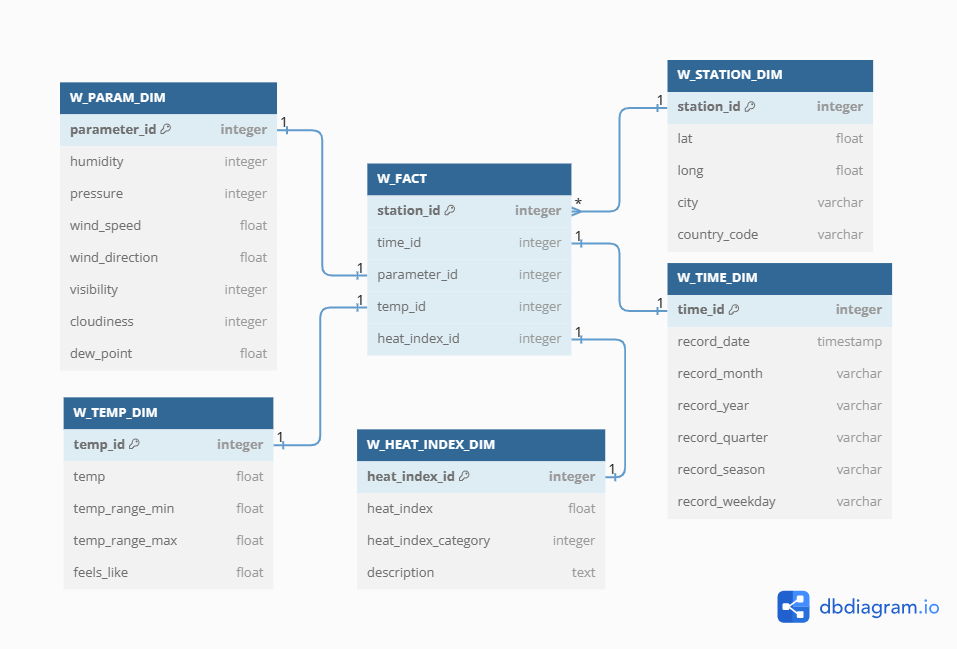
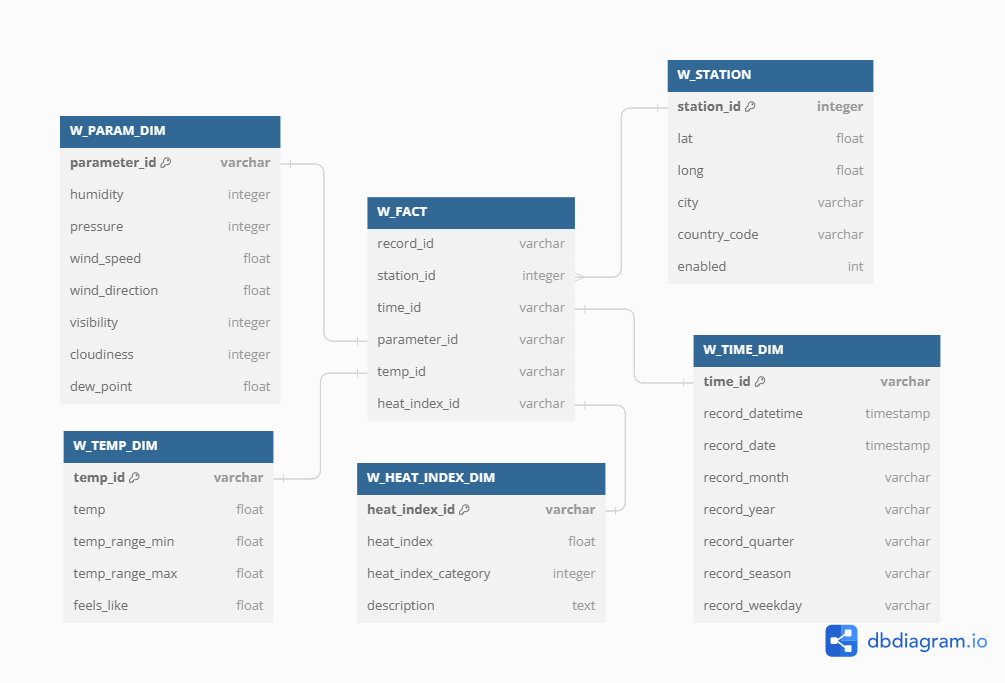
[UPDATE] add support for multiple locations

diff --git a/dags/etl.py b/dags/etl.py
@@ -1,131 +1,126 @@
 from uuid import uuid4
-from json import loads
+from json import loads, dumps
 from datetime import datetime, timedelta
 
 import pandas as pd
-from mysql.connector import Error
-import mysql.connector as mysql
-
 from airflow import DAG
-from airflow.models import Variable
 from airflow.operators.python_operator import PythonOperator
 
-
-from utils.api import fetch_api_key, call_api
+from utils.api import fetch_data
+from utils.database import MySQLHandler
 
 default_args = {
    'owner': 'pratik'
 }
 
 
-def load(ti):
-    result = ti.xcom_pull(task_ids='merge_transform')
-
-    record_id, station_id, time_id, parameter_id, temp_id, heat_index_id = str(uuid4()), 1, str(uuid4()), str(uuid4()), str(uuid4()), str(uuid4()) 
-    cxn = mysql.connect(host=Variable.get("MYSQL_HOST"), user=Variable.get("MYSQL_USER"), 
-                        password=Variable.get("MYSQL_PSWD"), database=Variable.get("MYSQL_DB"))
-    cur = cxn.cursor()
-
-    try:
-        cur.execute("INSERT INTO W_FACT(record_id, station_id, time_id, parameter_id, temp_id, heat_index_id)" 
-                    f" VALUES ('{record_id}', {station_id}, '{time_id}', '{parameter_id}', '{temp_id}', '{heat_index_id}')")
-        
-        cur.execute("INSERT INTO W_PARAM_DIM(parameter_id, humidity, pressure, visibility, cloudiness, dew_point, wind_speed, wind_direction)" 
-                    f" VALUES ('{parameter_id}', '{result['humidity']}', '{result['pressure']}'," 
-                    f" '{result['visibility']}', '{result['cloudiness']}', '{result['dew_point']}', {result['wind_speed']}, {result['wind_direction']})")
-        
-        cur.execute("INSERT INTO W_TIME_DIM(time_id, record_datetime, record_date, record_month, record_year, record_quarter, record_season, record_weekday)" 
-                    f" VALUES ('{time_id}', '{result['recorded_datetime_local']}', '{result['recorded_date_local']}', '{result['recorded_month_local']}'," 
-                    f" '{result['recorded_year_local']}', '{result['recorded_quarter_local']}', '{result['recorded_season_local']}', '{result['recorded_weekday_local']}')")
-        
-        cur.execute("INSERT INTO W_TEMP_DIM(temp_id, temp, temp_range_min, temp_range_max, feels_like)" 
-                    f" VALUES ('{temp_id}', '{result['temp']}', '{result['temp_min']}', '{result['temp_max']}'," 
-                    f" '{result['feels_like']}')")
-        
-        cur.execute("INSERT INTO W_HEAT_INDEX_DIM(heat_index_id, heat_index, heat_index_category, description)" 
-                    f" VALUES ('{heat_index_id}', '{result['heat_index']}', 1, '')")
-    except Error:
-        cxn.rollback()
-        raise
-    else:
-        cxn.commit()
-
-    cur.close()
-    cxn.close()
-    return None
-
-def poll_api():
-    api_key = fetch_api_key()
-    return call_api(api_key)
+def extract():
+    return dumps(fetch_data())
 
 def enrich_datetime(ti):
-    json_data = ti.xcom_pull(task_ids='poll_api')
+    weather_array = loads(ti.xcom_pull(task_ids='extract'))
 
-    series = pd.Series(json_data)
-    series["timestamp"] = int(series["timestamp"])
-    series["sunset_ts"] = int(series["sunset_ts"])
-    series["sunrise_ts"] = int(series["sunrise_ts"])
+    to_return = []
+    for station_data in weather_array:
+        series = pd.Series(station_data)
+        series["timestamp"] = int(series["timestamp"])
+        series["sunset_ts"] = int(series["sunset_ts"])
+        series["sunrise_ts"] = int(series["sunrise_ts"])
 
-    series["recorded_datetime_local"] = datetime.fromtimestamp(series["timestamp"] + series["timezone"])
-    series["sunset_datetime_local"] = datetime.fromtimestamp(series["sunset_ts"] + series["timezone"])
-    series["sunrise_datetime_local"] = datetime.fromtimestamp(series["sunrise_ts"] + series["timezone"])
+        series["recorded_datetime_local"] = datetime.fromtimestamp(series["timestamp"] + series["timezone"])
+        series["sunset_datetime_local"] = datetime.fromtimestamp(series["sunset_ts"] + series["timezone"])
+        series["sunrise_datetime_local"] = datetime.fromtimestamp(series["sunrise_ts"] + series["timezone"])
 
-    series.drop(["timestamp", "sunset_ts", "sunrise_ts"], inplace=True)
+        series.drop(["timestamp", "sunset_ts", "sunrise_ts"], inplace=True)
 
-    month = int(series["recorded_datetime_local"].strftime("%m"))
-    if 1 <= month <= 3:
-        series["recorded_quarter_local"] = "Q1"
-    elif 4 <= month <= 6:
-        series["recorded_quarter_local"] = "Q2"
-    elif 7 <= month <= 9:
-        series["recorded_quarter_local"] = "Q3"
-    elif 10 <= month <= 12:
-        series["recorded_quarter_local"] = "Q4"
+        month = int(series["recorded_datetime_local"].strftime("%m"))
+        if 1 <= month <= 3:
+            series["recorded_quarter_local"] = "Q1"
+        elif 4 <= month <= 6:
+            series["recorded_quarter_local"] = "Q2"
+        elif 7 <= month <= 9:
+            series["recorded_quarter_local"] = "Q3"
+        elif 10 <= month <= 12:
+            series["recorded_quarter_local"] = "Q4"
 
-    if 3 <= month <= 5:
-        series["recorded_season_local"] = "Spring"
-    elif 6 <= month <= 8:
-        series["recorded_season_local"] = "Summer"
-    elif 9 <= month <= 11:
-        series["recorded_season_local"] = "Fall"
-    elif month == 12 or 1 <= month <= 2:
-        series["recorded_season_local"] = "Winter"
-    
-    series["recorded_weekday_local"] = series["recorded_datetime_local"].strftime("%A")
-    series["recorded_month_local"] = series["recorded_datetime_local"].strftime("%B")
-    series["recorded_year_local"] = series["recorded_datetime_local"].year
+        if 3 <= month <= 5:
+            series["recorded_season_local"] = "Spring"
+        elif 6 <= month <= 8:
+            series["recorded_season_local"] = "Summer"
+        elif 9 <= month <= 11:
+            series["recorded_season_local"] = "Fall"
+        elif month == 12 or 1 <= month <= 2:
+            series["recorded_season_local"] = "Winter"
+        
+        series["recorded_weekday_local"] = series["recorded_datetime_local"].strftime("%A")
+        series["recorded_month_local"] = series["recorded_datetime_local"].strftime("%B")
+        series["recorded_year_local"] = series["recorded_datetime_local"].year
 
-    series["daylight_duration_delta"] = series["sunset_datetime_local"] - series["sunrise_datetime_local"]
-    series["daylight_duration_minutes"] = series["daylight_duration_delta"].seconds // 60
-    series.drop(["daylight_duration_delta"], inplace=True)
+        series["daylight_duration_delta"] = series["sunset_datetime_local"] - series["sunrise_datetime_local"]
+        series["daylight_duration_minutes"] = series["daylight_duration_delta"].seconds // 60
+        series.drop(["daylight_duration_delta"], inplace=True)
 
-    series["recorded_date_local"] = series["recorded_datetime_local"].strftime('%Y-%m-%d')
-    series["recorded_datetime_local"] = series["recorded_datetime_local"].strftime('%Y-%m-%d %H:%M:%S')
-    series["sunset_datetime_local"] = series["sunset_datetime_local"].strftime('%Y-%m-%d %H:%M:%S')
-    series["sunrise_datetime_local"] = series["sunrise_datetime_local"].strftime('%Y-%m-%d %H:%M:%S')
+        series["recorded_date_local"] = series["recorded_datetime_local"].strftime('%Y-%m-%d')
+        series["recorded_datetime_local"] = series["recorded_datetime_local"].strftime('%Y-%m-%d %H:%M:%S')
+        series["sunset_datetime_local"] = series["sunset_datetime_local"].strftime('%Y-%m-%d %H:%M:%S')
+        series["sunrise_datetime_local"] = series["sunrise_datetime_local"].strftime('%Y-%m-%d %H:%M:%S')
 
-    return series.to_json()
+        to_return.append(series.to_dict())
+    return dumps(to_return)
 
 def add_calc_attributes(ti):
-    json_data = ti.xcom_pull(task_ids='poll_api')
+    weather_array = loads(ti.xcom_pull(task_ids='extract'))
 
-    series = pd.Series(json_data)
-    new_attributes = {}
-    new_attributes["dew_point"] = round(series["temp"] - ((100 - series["humidity"]) / 5), 2)
+    to_return = []
+    for station_data in weather_array:
+        series = pd.Series(station_data)
+        new_attributes = {}
+        new_attributes["dew_point"] = round(series["temp"] - ((100 - series["humidity"]) / 5), 2)
 
-    series["temp_F"] = (series["temp"] * 1.8) + 32
-    new_attributes["heat_index"] = 0.5 * (series["temp_F"] + 61.0 + ((series["temp_F"] - 68.0) * 1.2) + (series["humidity"] * 0.094))
-    new_attributes["heat_index"] = round(((new_attributes["heat_index"] - 32) * 5) / 9, 2)
-
-    return new_attributes
+        series["temp_F"] = (series["temp"] * 1.8) + 32
+        new_attributes["heat_index"] = 0.5 * (series["temp_F"] + 61.0 + ((series["temp_F"] - 68.0) * 1.2) + (series["humidity"] * 0.094))
+        new_attributes["heat_index"] = round(((new_attributes["heat_index"] - 32) * 5) / 9, 2)
+        to_return.append(new_attributes)
+    return dumps(to_return)
 
 def merge_transform(ti):
     enriched_data = loads(ti.xcom_pull(task_ids='enrich_datetime'))
-    new_attributes = ti.xcom_pull(task_ids='add_calc_attributes')
+    new_attributes = loads(ti.xcom_pull(task_ids='add_calc_attributes'))
 
-    result = {**enriched_data, **new_attributes}
-    return result
+    print(enriched_data)
+    print(new_attributes)
 
+    result = [{**enrich_data, **new_data} for enrich_data, new_data in zip(enriched_data, new_attributes)]
+    return dumps(result)
+
+def load(ti):
+    result = loads(ti.xcom_pull(task_ids='merge_transform'))
+
+    cxn = MySQLHandler()
+    cxn.connect()
+
+    for row in result:
+        record_id, time_id, parameter_id, temp_id, heat_index_id = str(uuid4()), str(uuid4()), str(uuid4()), str(uuid4()), str(uuid4()) 
+
+        w_fact = f"""INSERT INTO W_FACT(record_id, station_id, time_id, parameter_id, temp_id, heat_index_id)
+                     VALUES ('{record_id}', {row['station_id']}, '{time_id}', '{parameter_id}', '{temp_id}', '{heat_index_id}')"""
+        
+        w_param_dim = f"""INSERT INTO W_PARAM_DIM(parameter_id, humidity, pressure, visibility, cloudiness, dew_point, wind_speed, wind_direction)
+                          VALUES ('{parameter_id}', '{row['humidity']}', '{row['pressure']}',
+                          '{row['visibility']}', '{row['cloudiness']}', '{row['dew_point']}', {row['wind_speed']}, {row['wind_direction']})"""
+        
+        w_time_dim = f"""INSERT INTO W_TIME_DIM(time_id, record_datetime, record_date, record_month, record_year, record_quarter, record_season, record_weekday)
+                         VALUES ('{time_id}', '{row['recorded_datetime_local']}', '{row['recorded_date_local']}', '{row['recorded_month_local']}',
+                         '{row['recorded_year_local']}', '{row['recorded_quarter_local']}', '{row['recorded_season_local']}', '{row['recorded_weekday_local']}')"""
+        
+        w_temp_dim = f"""INSERT INTO W_TEMP_DIM(temp_id, temp, temp_range_min, temp_range_max, feels_like)
+                         VALUES ('{temp_id}', '{row['temp']}', '{row['temp_min']}', '{row['temp_max']}', '{row['feels_like']}')"""
+        
+        w_heat_dim = f"""INSERT INTO W_HEAT_INDEX_DIM(heat_index_id, heat_index, heat_index_category, description)
+                         VALUES ('{heat_index_id}', '{row['heat_index']}', 1, '')"""
+        
+        cxn.execute_batch([w_fact, w_param_dim, w_time_dim, w_temp_dim, w_heat_dim])
+    cxn.close()
 
 with DAG(
     dag_id = 'weatherflow_etl',
@@ -136,9 +131,9 @@ with DAG(
     catchup=False,
     tags = ['etl']
 ) as dag:
-    poll_api_task = PythonOperator(
-        task_id='poll_api',
-        python_callable=poll_api
+    extract_task = PythonOperator(
+        task_id='extract',
+        python_callable=extract
     )
 
     enrich_datetime_task = PythonOperator(
@@ -161,4 +156,4 @@ with DAG(
         python_callable=load
     )
 
-poll_api_task >> [enrich_datetime_task, add_calc_attributes_task] >> merge_transform_task >> store_to_db_task
+extract_task >> [enrich_datetime_task, add_calc_attributes_task] >> merge_transform_task >> store_to_db_task

diff --git a/dags/utils/api.py b/dags/utils/api.py
@@ -1,32 +1,35 @@
-import os
 import random
-import logging
 import requests
+from typing import List
 
 from airflow.models import Variable
 
-def fetch_api_key():
+from utils.database import MySQLHandler
+
+
+def fetch_data() -> List[dict]:
     keys = [Variable.get("API_KEY1"), Variable.get("API_KEY2")]
 
     if not keys:
         raise EnvironmentError("No API keys found")
     
-    return random.choice(keys)
+    api_key = random.choice(keys)
 
+    cxn = MySQLHandler()
+    cxn.connect()
+    stations = cxn.execute("SELECT station_id, city, country_code FROM W_STATION WHERE enabled = 1;")
+    cxn.close()
 
-def call_api(api_key: str) -> dict:
-    try:
-        resp = requests.get("https://api.openweathermap.org/data/2.5/weather?q=Windsor,CA" \
-                            f"&appid={api_key}&units=metric")
-    except requests.exceptions as e:
-        logging.exception("Failed polling api")
-        return {}
-    
-    resp = resp.json()
+    to_return = []
+    for _, row in stations.iterrows():
+        station_id, city, country_code = row["station_id"], row["city"], row["country_code"]
+        resp = requests.get(f"https://api.openweathermap.org/data/2.5/weather?q={city},{country_code}&appid={api_key}&units=metric")
+        
+        resp = resp.json()
 
-    data = {"base": resp["base"], "temp": resp["main"]["temp"], "temp_min": resp["main"]["temp_min"], "temp_max": resp["main"]["temp_max"],
-            "feels_like": resp["main"]["feels_like"], "wind_speed": resp["wind"]["speed"], "wind_direction": resp["wind"]["deg"],
-            "pressure": resp["main"]["pressure"], "humidity": resp["main"]["humidity"], "visibility": resp["visibility"], 
-            "cloudiness": resp["clouds"]["all"], "timestamp": resp["dt"], "sunrise_ts": resp["sys"]["sunrise"], 
-            "sunset_ts": resp["sys"]["sunset"], "timezone": resp["timezone"]}
-    return data
+        to_return.append({"station_id": station_id, "temp": resp["main"]["temp"], "temp_min": resp["main"]["temp_min"], "temp_max": resp["main"]["temp_max"],
+                "feels_like": resp["main"]["feels_like"], "wind_speed": resp["wind"]["speed"], "wind_direction": resp["wind"]["deg"],
+                "pressure": resp["main"]["pressure"], "humidity": resp["main"]["humidity"], "visibility": resp["visibility"], 
+                "cloudiness": resp["clouds"]["all"], "timestamp": resp["dt"], "sunrise_ts": resp["sys"]["sunrise"], 
+                "sunset_ts": resp["sys"]["sunset"], "timezone": resp["timezone"]})
+    return to_return

diff --git a/dags/utils/database.py b/dags/utils/database.py
@@ -1,0 +1,40 @@
+from typing import List
+
+from pandas import DataFrame
+import mysql.connector as mysql
+from airflow.models import Variable
+
+
+class MySQLHandler:
+    def __init__(self):
+        self.cxn = None
+    
+    def connect(self):
+        self.cxn = mysql.connect(host=Variable.get("MYSQL_HOST"), user=Variable.get("MYSQL_USER"), 
+                        password=Variable.get("MYSQL_PSWD"), database=Variable.get("MYSQL_DB"))
+        
+    def execute(self, query: str) -> DataFrame:
+        cur = self.cxn.cursor()
+        cur.execute(query)
+
+        headers = [tup[0] for tup in cur.description]
+        df = DataFrame.from_records(cur.fetchall(), columns=headers)
+        cur.close()
+        return df
+
+    def execute_batch(self, queries: List[str]):
+        cur = self.cxn.cursor()
+        try:
+            for query in queries:
+                cur.execute(query)
+            cur.close()
+        except mysql.Error:
+            self.cxn.rollback()
+        else:
+            self.commit()
+    
+    def commit(self):
+        self.cxn.commit()
+
+    def close(self):
+        self.cxn.close()

diff --git a/README.md b/README.md
@@ -2,8 +2,9 @@
 
 An AirFlow project to gather data from OpenWeatherMap API at regular intervals.
 
-### Project Setup
+## Setup
 
+### AirFlow
 1. Create a virtual environment, activate environment
 2. Install requirements.txt
 3. Run `airflow scheduler` in a terminal from project directory
@@ -12,8 +13,13 @@ An AirFlow project to gather data from OpenWeatherMap API at regular intervals.
 6. Go to Admin -> Variables and add values for API_KEY1, API_KEY2, MYSQL_DB, MYSQL_HOST, MYSQL_USER, MYSQL_PSWD
 7. Enable DAG from DAGs menu
 
-### DB setup
+### Database (MySQL)
 
 1. Install MySQL community server
 2. Create a user or use Admin user
 3. Create tables by running SQL/create_tables.sql
+
+## Database Schema
+
+This project follows star schema in a data warehouse
+![Database Schema](./SQL/db_schema.png)
